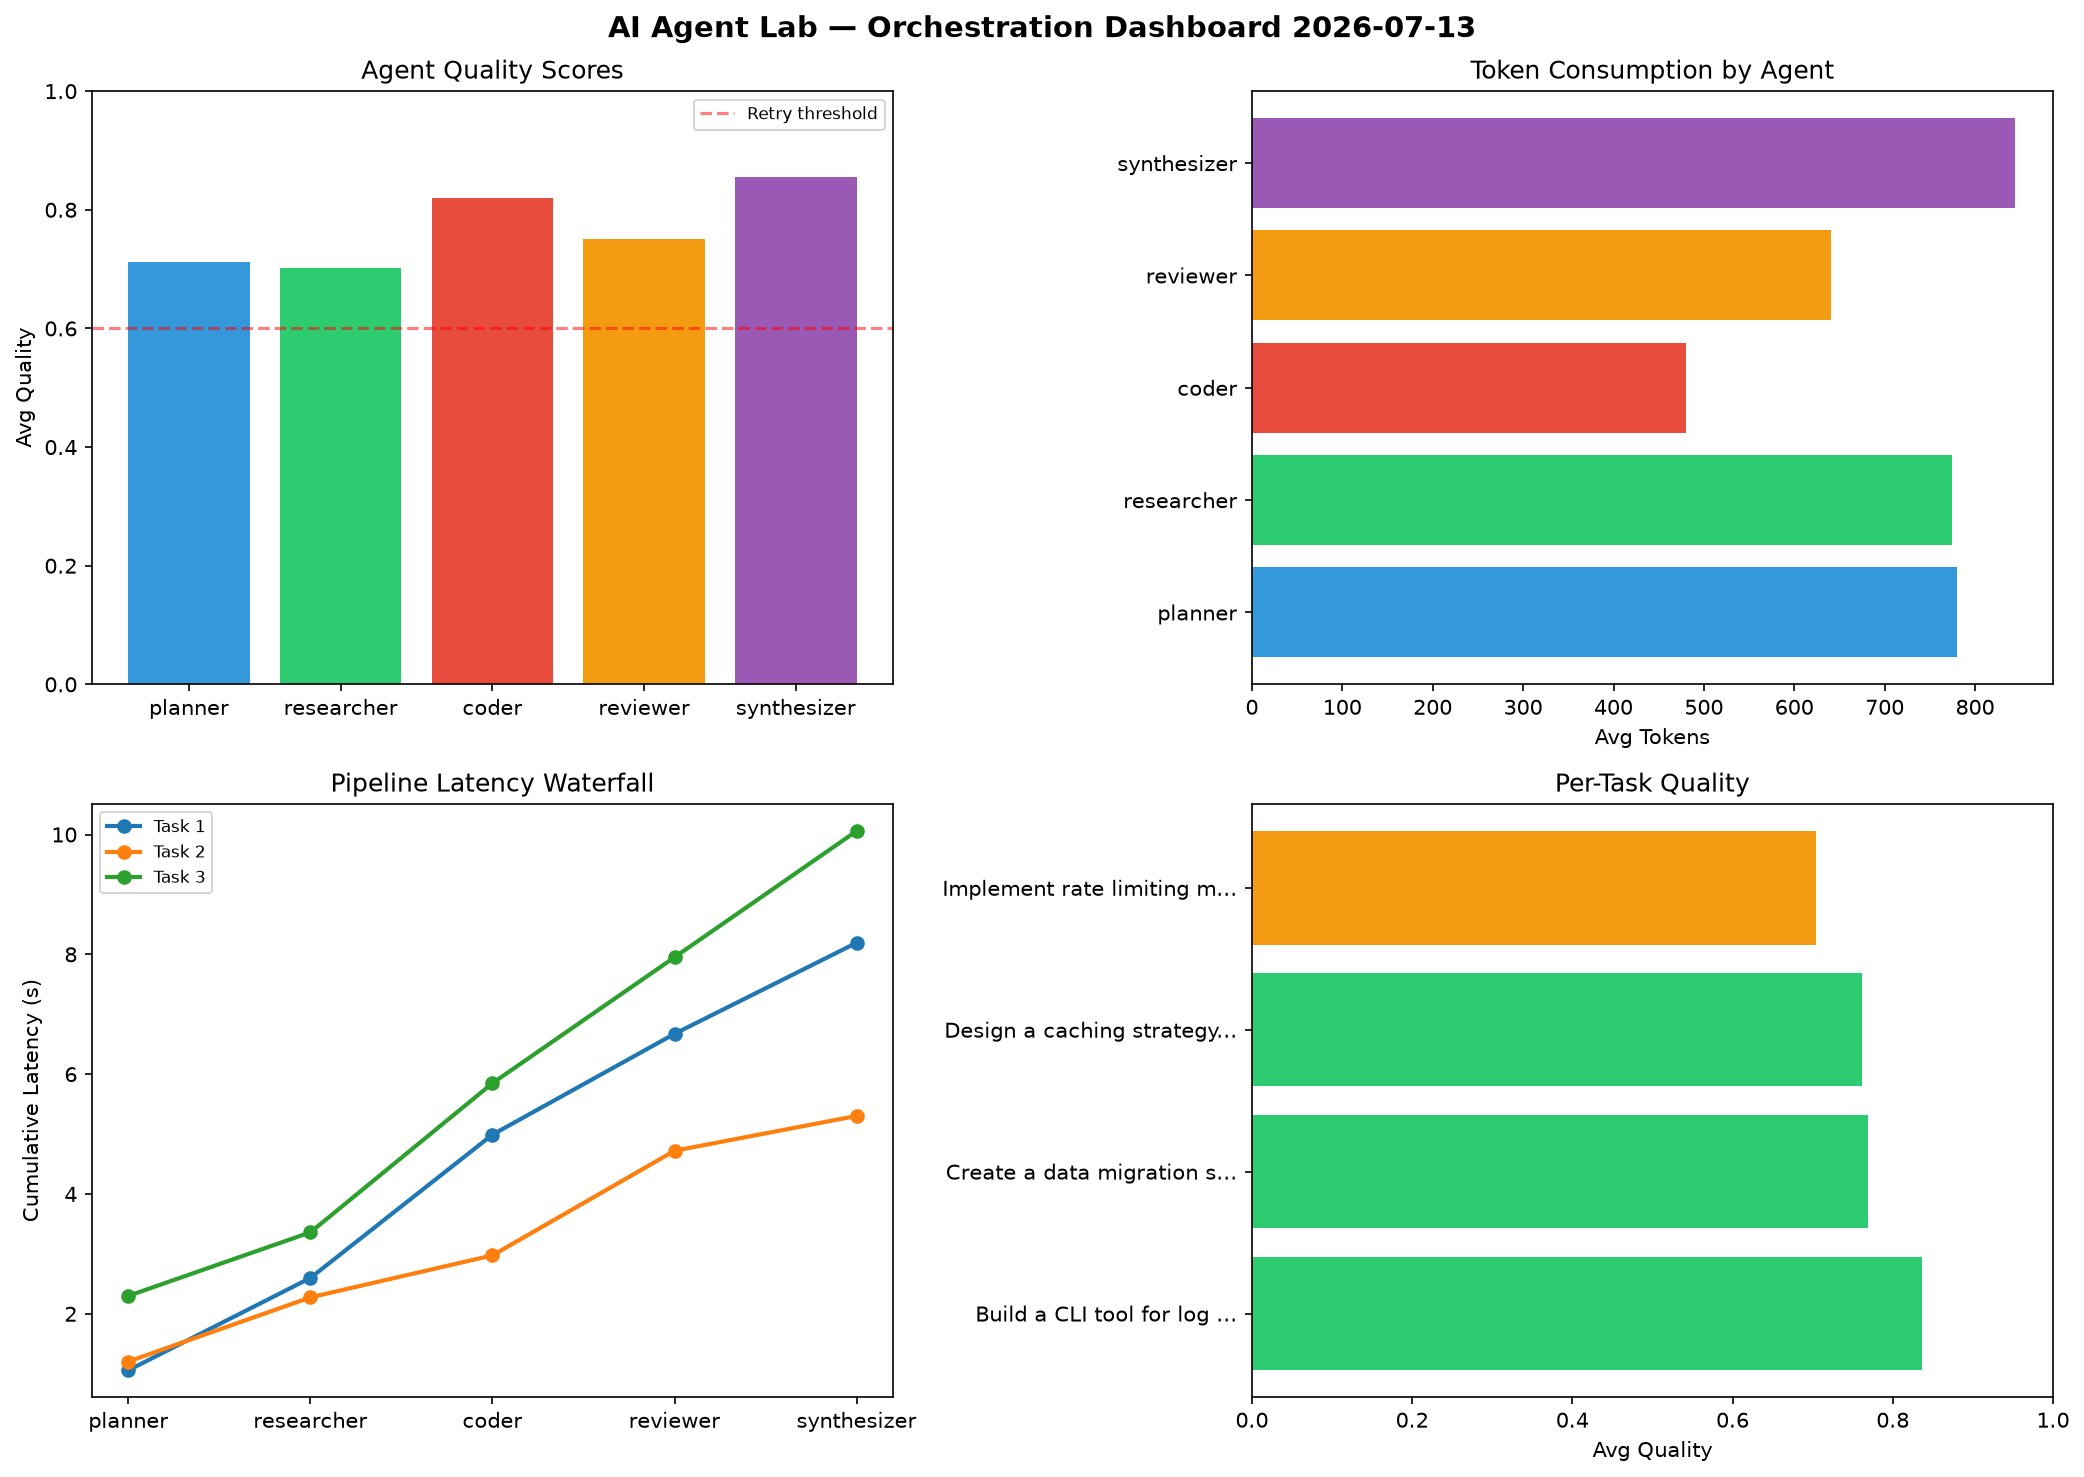
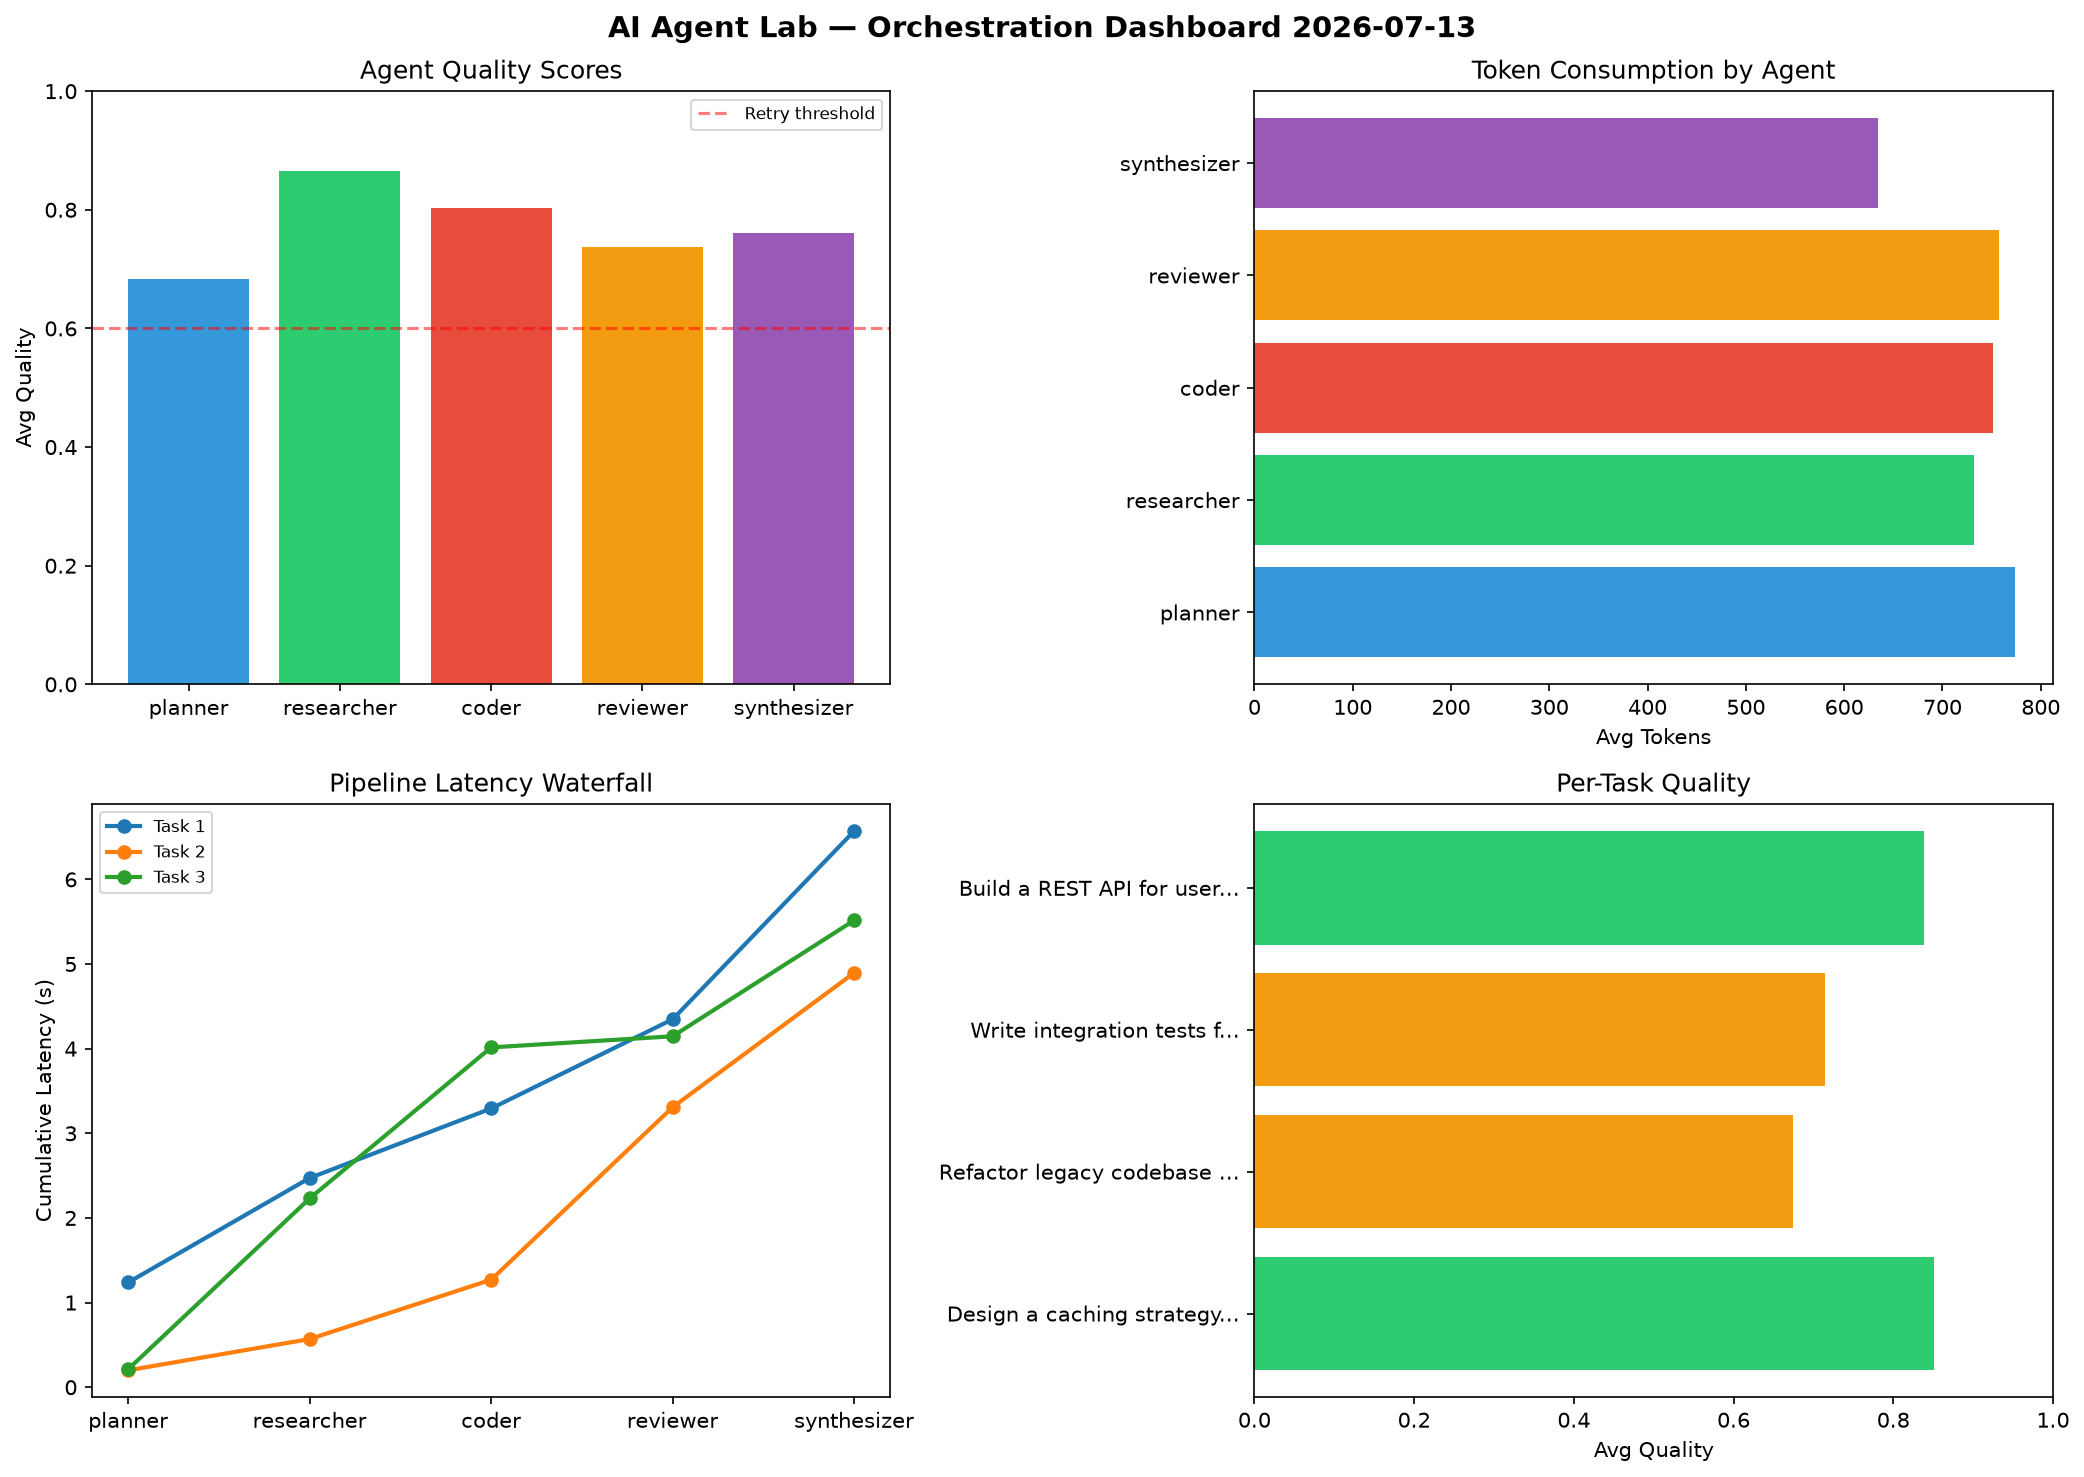
ai-agent-lab: orchestration run 2026-07-13T11:29

diff --git a/logs/2026-07-13.md b/logs/2026-07-13.md
@@ -1,6 +1,6 @@
 # AI Agent Lab — Orchestration Report 2026-07-13
 
-**Run ID:** `15b6e2a9ad` | **Tasks:** 4 | **Avg Quality:** 0.768
+**Run ID:** `ead14e0c64` | **Tasks:** 4 | **Avg Quality:** 0.77
 
 ![Dashboard](2026-07-13_dashboard.png)
 
@@ -8,52 +8,52 @@
 
 | Metric | Value |
 |--------|-------|
-| avg_latency | 7.647 |
-| total_tokens | 14082 |
-| avg_quality | 0.768 |
+| avg_latency | 6.066 |
+| total_tokens | 14602 |
+| avg_quality | 0.77 |
 
 ## Delta vs Yesterday
 
 | Metric | Today | Yesterday | Change |
 |--------|-------|-----------|--------|
-| avg_latency | 7.647 | 7.094 | 📈 7.8% |
-| total_tokens | 14082 | 16180 | 📉 -13.0% |
-| avg_quality | 0.768 | 0.704 | 📈 9.1% |
+| avg_latency | 6.066 | 7.094 | 📉 -14.5% |
+| total_tokens | 14602 | 16180 | 📉 -9.8% |
+| avg_quality | 0.77 | 0.704 | 📈 9.4% |
 
 ## Pipeline Results
-
-### Build a CLI tool for log analysis
-| Agent | Quality | Latency | Tokens | Status |
-|-------|---------|---------|--------|--------|
-| planner | 0.643 | 1.057s | 590 | success |
-| researcher | 0.807 | 1.541s | 1007 | success |
-| coder | 0.913 | 2.392s | 496 | success |
-| reviewer | 0.827 | 1.683s | 731 | success |
-| synthesizer | 0.997 | 1.52s | 1070 | success |
-
-### Create a data migration script for schema v2
-| Agent | Quality | Latency | Tokens | Status |
-|-------|---------|---------|--------|--------|
-| planner | 0.616 | 1.203s | 1135 | success |
-| researcher | 0.791 | 1.071s | 889 | success |
-| coder | 0.895 | 0.701s | 760 | success |
-| reviewer | 0.6 | 1.746s | 449 | needs_retry |
-| synthesizer | 0.941 | 0.582s | 1213 | success |
 
 ### Design a caching strategy for high-traffic endpoints
 | Agent | Quality | Latency | Tokens | Status |
 |-------|---------|---------|--------|--------|
-| planner | 0.699 | 2.299s | 783 | success |
-| researcher | 0.501 | 1.061s | 295 | needs_retry |
-| coder | 0.9 | 2.489s | 395 | success |
-| reviewer | 0.835 | 2.102s | 853 | success |
-| synthesizer | 0.875 | 2.107s | 288 | success |
+| planner | 0.618 | 1.238s | 774 | success |
+| researcher | 1.0 | 1.234s | 993 | success |
+| coder | 0.94 | 0.821s | 453 | success |
+| reviewer | 0.872 | 1.054s | 857 | success |
+| synthesizer | 0.824 | 2.224s | 680 | success |
 
-### Implement rate limiting middleware
+### Refactor legacy codebase to use dependency injection
 | Agent | Quality | Latency | Tokens | Status |
 |-------|---------|---------|--------|--------|
-| planner | 0.889 | 1.807s | 614 | success |
-| researcher | 0.708 | 0.478s | 908 | success |
-| coder | 0.571 | 1.523s | 271 | needs_retry |
-| reviewer | 0.741 | 1.684s | 530 | success |
-| synthesizer | 0.611 | 1.543s | 805 | success |
+| planner | 0.661 | 0.2s | 503 | success |
+| researcher | 0.895 | 0.369s | 382 | success |
+| coder | 0.637 | 0.701s | 672 | success |
+| reviewer | 0.617 | 2.038s | 1054 | success |
+| synthesizer | 0.567 | 1.588s | 584 | needs_retry |
+
+### Write integration tests for payment processing module
+| Agent | Quality | Latency | Tokens | Status |
+|-------|---------|---------|--------|--------|
+| planner | 0.635 | 0.213s | 1037 | success |
+| researcher | 0.598 | 2.018s | 884 | needs_retry |
+| coder | 0.779 | 1.784s | 1058 | success |
+| reviewer | 0.75 | 0.131s | 357 | success |
+| synthesizer | 0.811 | 1.37s | 649 | success |
+
+### Build a REST API for user authentication
+| Agent | Quality | Latency | Tokens | Status |
+|-------|---------|---------|--------|--------|
+| planner | 0.819 | 1.068s | 781 | success |
+| researcher | 0.966 | 1.426s | 671 | success |
+| coder | 0.854 | 2.165s | 823 | success |
+| reviewer | 0.709 | 0.845s | 764 | success |
+| synthesizer | 0.844 | 1.776s | 626 | success |
